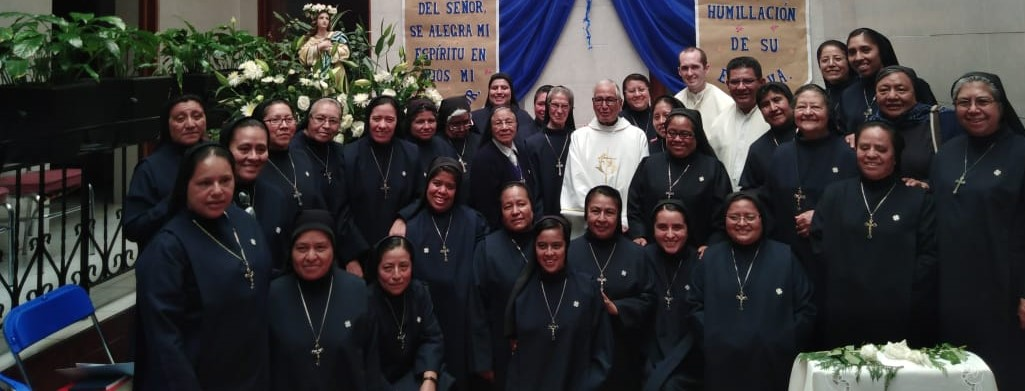
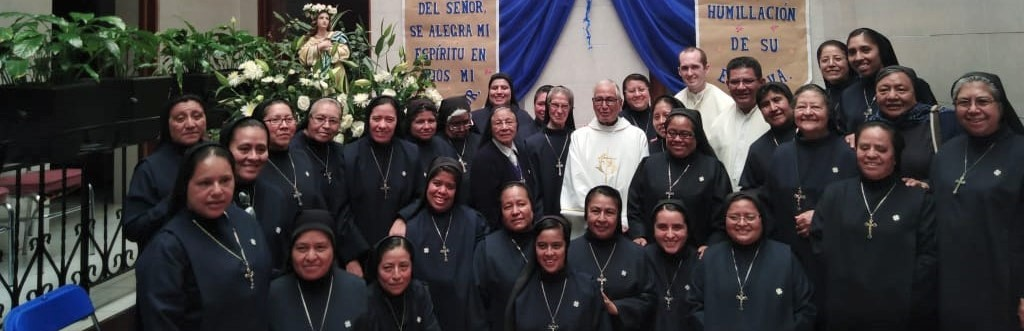
Cambio Jumbotron

diff --git a/estilos/style.css b/estilos/style.css
@@ -29,7 +29,7 @@ hr {
   /* Jumbotron (hero) */
   .jumbotron {
     position: relative;
-    background: url(../Images/fondo.jpg) no-repeat bottom center/cover;
+    background: url(../Images/22.jpeg) no-repeat bottom center/cover;
   }
   .jumbotron:before {
     position: absolute;
